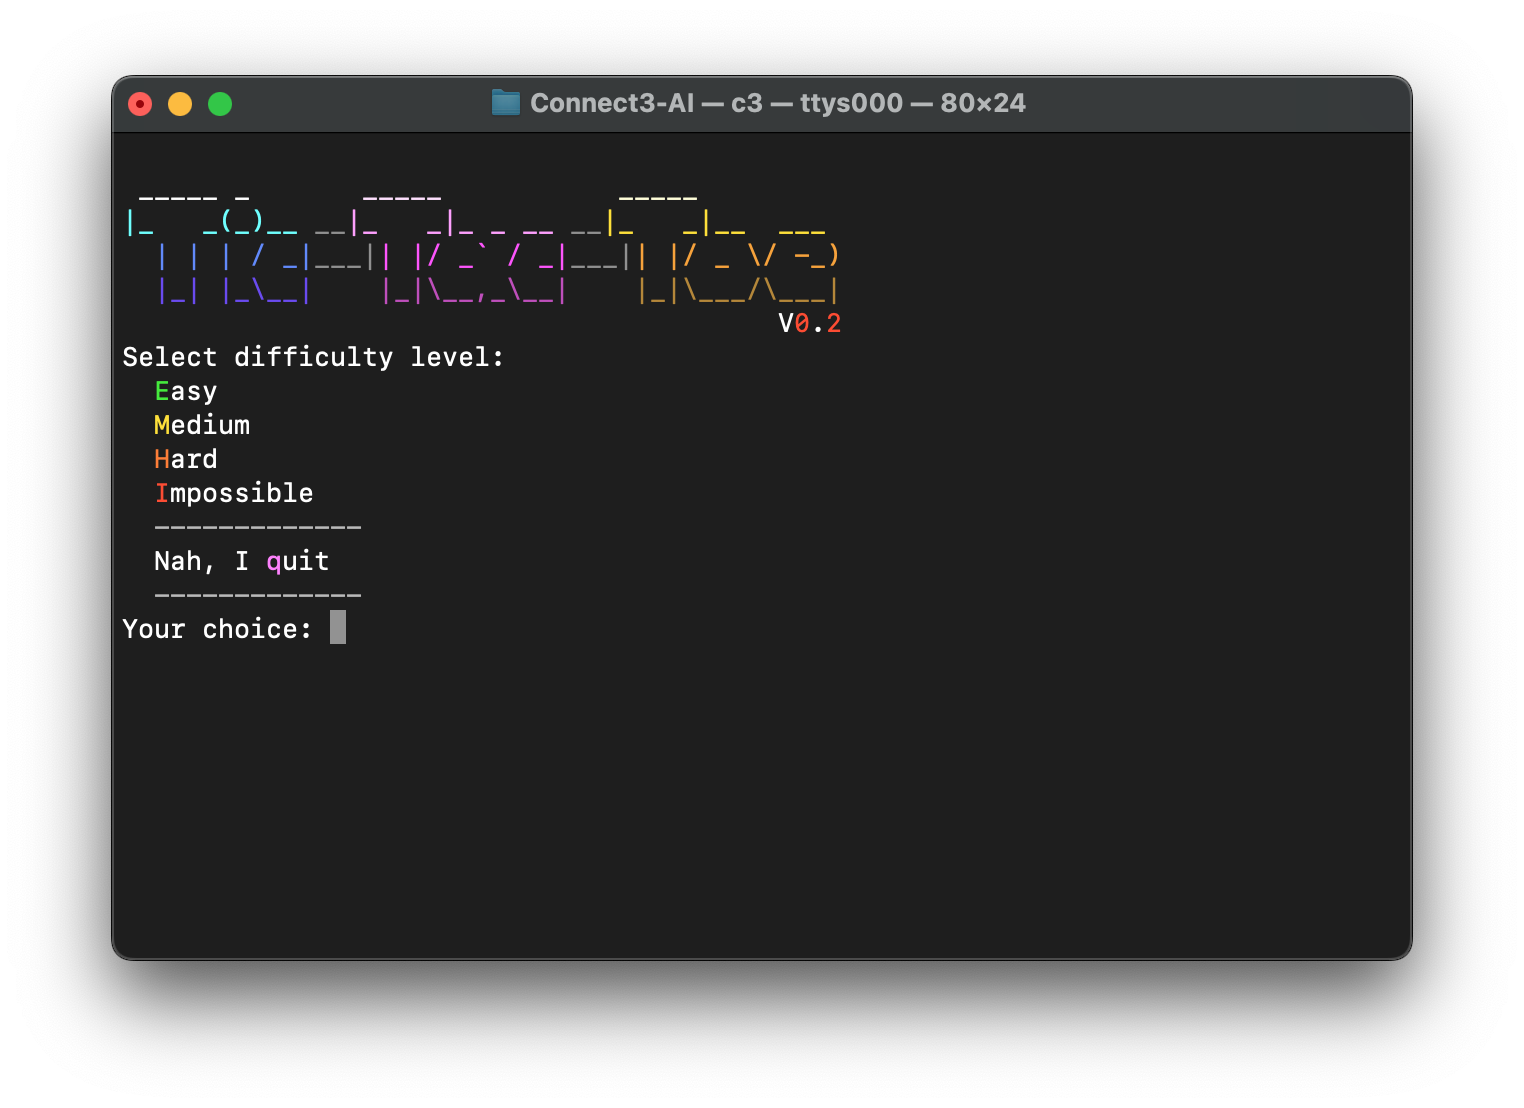
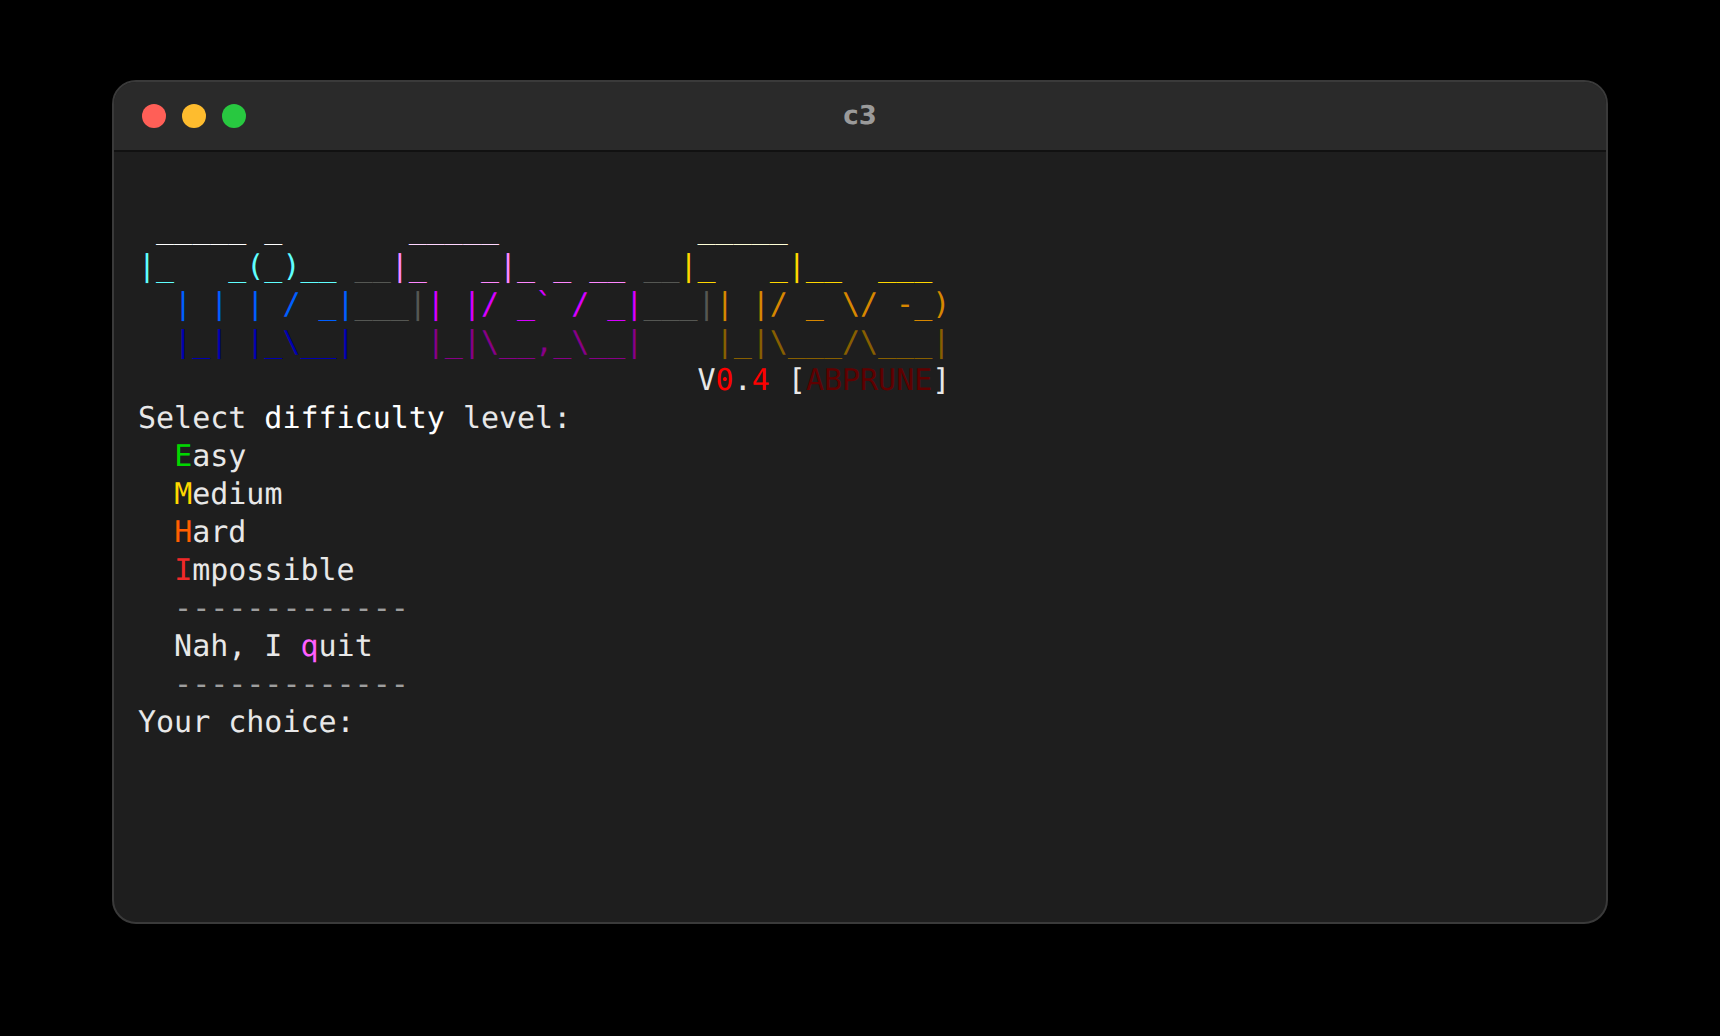
Refresh screenshots and readme
- screens: replace the v0.2 screenshots with captures of the current
  build (title screen, a game on Impossible, and a tied game-over
  screen), rendered from the program's real terminal output.
- readme: how to play, difficulty levels, engine notes (alpha-beta,
  transposition table, move ordering, board size), tests.
- .gitignore: ignore the test binaries built by `make test`.

Claude-Session: https://claude.ai/code/session_01HUnJUhXWQZZKKH7KPa9M6C

diff --git a/readme.md b/readme.md
@@ -1,17 +1,33 @@
 ## Tic-Tac-Toe - AI
-A simple Tic-Tac-Toe game between Human and Computer. Simply an illustration of the MiniMax algorithm. It's just for fun during the pandemic.
+A simple Tic-Tac-Toe game between Human and Computer in the terminal. Simply an illustration of the MiniMax algorithm. It's just for fun during the pandemic.
 
-Updates: 
-- The game interface got a major touch-up.
-- AI difficulty levels added.
-- Game board size can be changed via the symbol `BOARD_SIZE` in the file `defs.h`. The default value is `3`.
-- Alpha-Beta pruning strategy added. The strategy can be disabled by undefine the `_USE_ALPHA_BETA_PRUNE_` symbol also in the header file `defs.h`.
-- Several optimizations and code refactoring have been done to improve the game engine performance.
+## How to play
+- Pick a difficulty level, then enter the number of a free cell (`0`-`8` on the default board) to place your piece.
+- You play `O` and always move first; the computer plays `X`.
+- Enter `-1` to give up the current game.
+
+| Level      | Computer strategy           |
+|------------|-----------------------------|
+| Easy       | Plays a random free cell    |
+| Medium     | MiniMax with search depth 3 |
+| Hard       | MiniMax with search depth 5 |
+| Impossible | MiniMax with search depth 6 |
+
+## Engine
+- MiniMax search with Alpha-Beta pruning. The pruning can be disabled by undefining the `_USE_ALPHA_BETA_PRUNE_` symbol in `defs.h`; the title screen shows which engine is in use (`ABPRUNE` or `MINIMAX`).
+- A transposition table remembers positions that were already searched. With Alpha-Beta pruning, each entry records whether its score is exact or only a bound, so cached results never mislead the search.
+- Moves are tried in order of how many winning lines pass through a cell (center, then corners, then edges on a 3x3 board), which lets the pruning skip more of the search.
+- The board size can be changed via the symbol `BOARD_SIZE` in `defs.h`. The default value is `3`.
 
 ## Compiling
-* GCC: type `make`
+* GCC / Clang: type `make`
 * MinGW: type `mingw32-make`
 * DJGPP (DOS): type `makedos.bat`
+
+## Tests
+Tests are included in the `test` folder. To build and run them, type `make test`.
+- `tst_eng`: board handling, win/tie detection, AI blocking and winning moves, and a check that plays every possible game against the Medium, Hard and Impossible levels to make sure the computer never loses.
+- `tst_hlp`: screen and progress bar helpers.
 
 ## Tested
 - Clang (macOS Tahoe)
@@ -21,8 +37,8 @@ Updates:
 ## Notes
 - DOS support is now supported again.
 - This is just a basic version of the game. Feels free to fork and modify anyway you need.
-- Tests are included in the `test` folder. To build the tests, type `make test`.
 
-## Screenshot
+## Screenshots
 ![Title screen](screens/screen01.png)
 ![Gameplay screen](screens/screen02.png)
+![Game over screen](screens/screen03.png)
